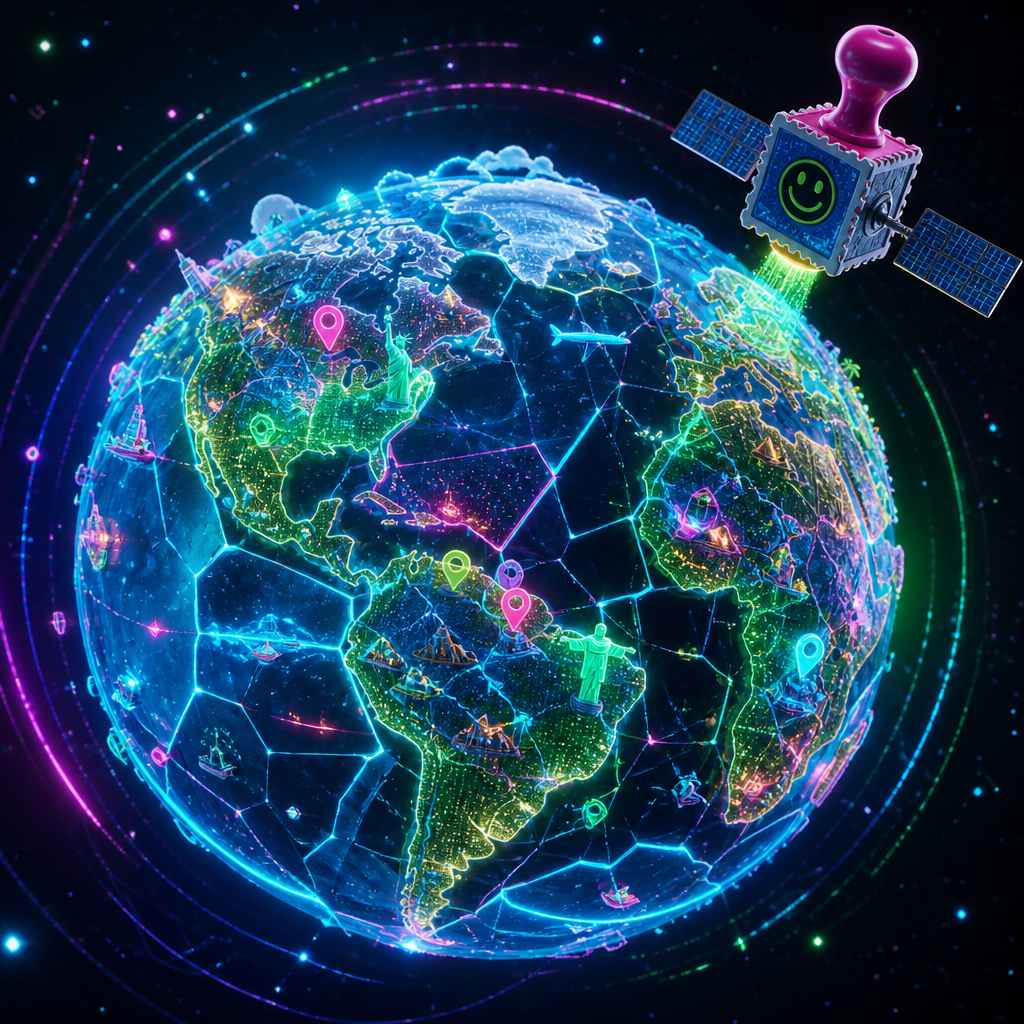
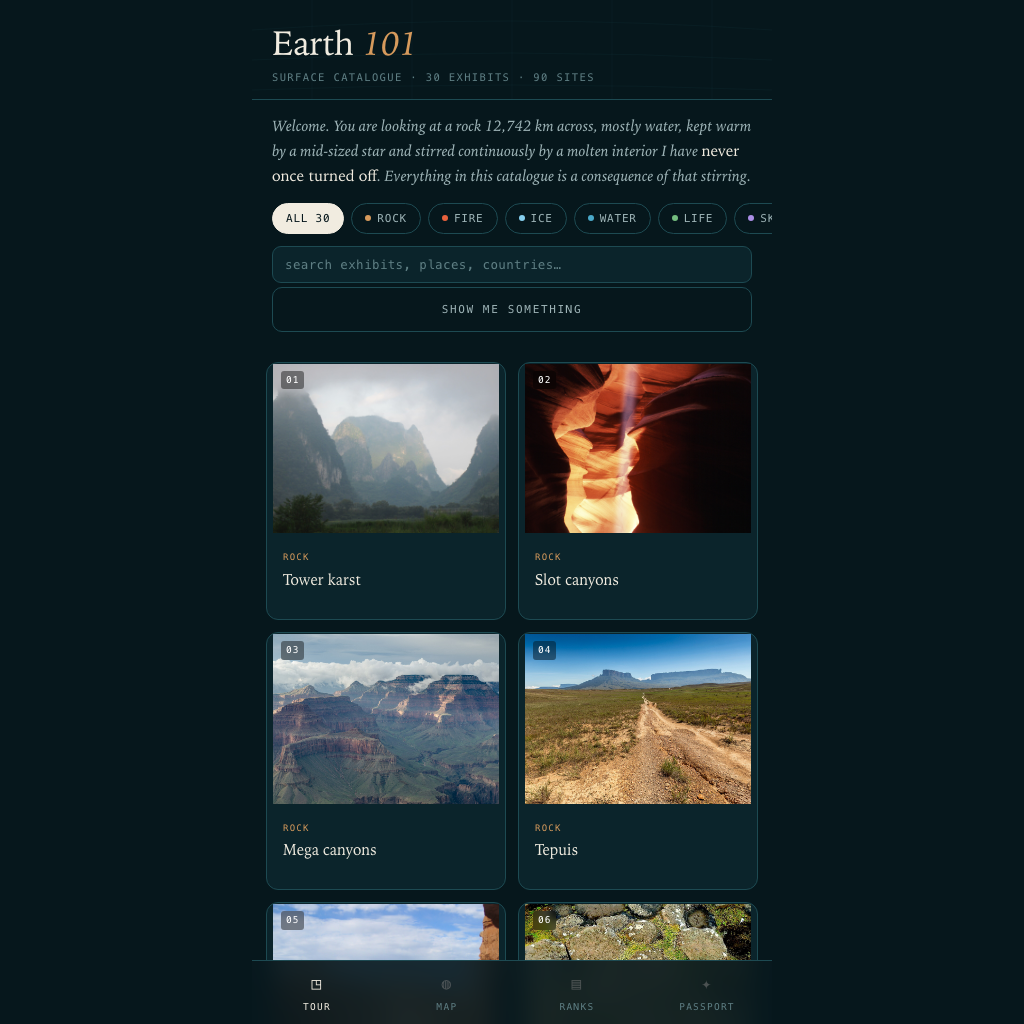
update sideproject cards

diff --git a/src/data/projects/index.ts b/src/data/projects/index.ts
@@ -117,13 +117,13 @@ export const projects: ProjectMeta[] = [
     locked: true,
   },
   {
-    slug: 'nuwa',
-    title: 'Nüwa',
+    slug: 'pangu',
+    title: 'Pangu',
     path: 'https://nuwa-six.vercel.app/',
     liveUrl: 'https://nuwa-six.vercel.app/',
-    thumbnail: '/side-quests/nuwa.png',
+    thumbnail: '/side-quests/pangu.png',
     blurb:
-      'An ink wash globe of the earth’s most iconic landscapes, each matched to the painting it echoes.',
+      'The most representative landscapes on Earth — an ink-wash globe of iconic places and the art they echo.',
     lane: 'side-quests',
   },
   {
@@ -133,7 +133,7 @@ export const projects: ProjectMeta[] = [
     liveUrl: 'https://muaythai-schedule.vercel.app/',
     thumbnail: '/side-quests/ringcard.png',
     blurb:
-      'Muay Thai schedule for past and upcoming fight events in Thailand, with live data.',
+      'A martial arts event platform for the biggest, most exciting fight nights in the world.',
     lane: 'side-quests',
   },
   {
@@ -142,8 +142,7 @@ export const projects: ProjectMeta[] = [
     path: 'https://earth101.vercel.app/',
     liveUrl: 'https://earth101.vercel.app/',
     thumbnail: '/side-quests/earth-101.png',
-    blurb:
-      'A guide to Earth’s most epic, representative nature: surfaces worth knowing.',
+    blurb: 'A passport to learn our planet.',
     lane: 'side-quests',
   },
 ]
